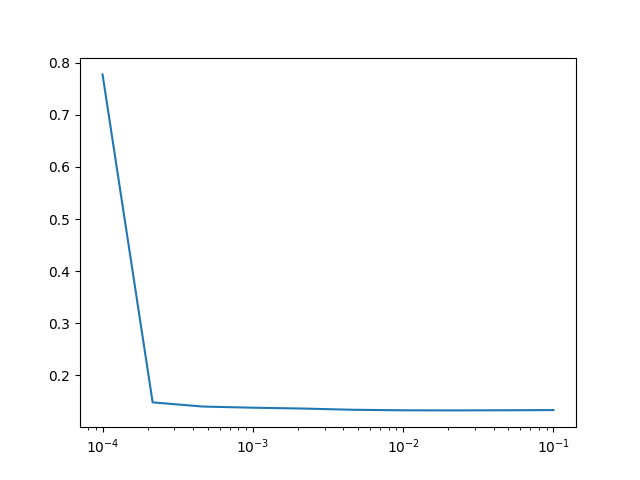
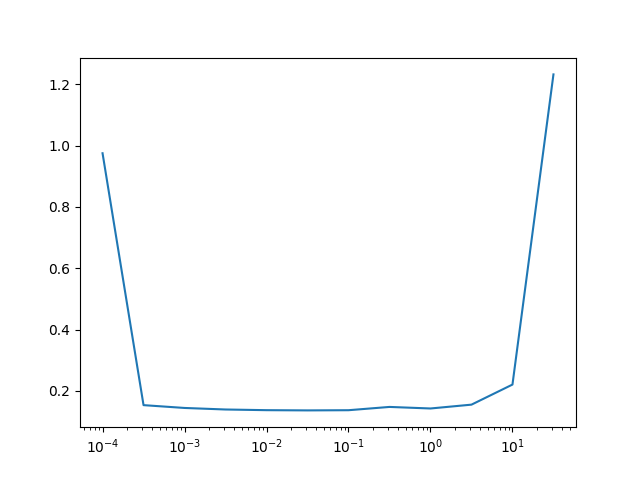
nn ready to train

diff --git a/code/models/content_based_filtering/nn.py b/code/models/content_based_filtering/nn.py
@@ -50,6 +50,8 @@ class simple_NN(keras.Model):
         hid2 = self.fc2_drop(hid2)
         out = self.out(hid2)
 
+        breakpoint()
+
         return out
 
 
@@ -69,15 +71,15 @@ from models import common_funcs
 
 ################################################################################
 
-PLOT_LR = True # set to True to plot lr graph
+PLOT_LR = False # set to True to plot lr graph
 
 
-def lr_plotter(model, x_small, y_small):
-    lr_schedule = tf.keras.callbacks.LearningRateScheduler(lambda epoch: 1e-4 * 10**(epoch/3))
+def lr_plotter(model, x_small, y_small, epochs=12):
+    lr_schedule = tf.keras.callbacks.LearningRateScheduler(lambda epoch: 1e-4 * 10**(epoch/2))
     opt = keras.optimizers.Adam(learning_rate=0.1)
     model.compile(loss="binary_crossentropy", optimizer=opt)
     history = model.fit(x=x_small, y=y_small,
-                epochs=10,
+                epochs=epochs,
                 callbacks=[lr_schedule]
     )
     plt.semilogx(history.history['lr'], history.history['loss'])
@@ -98,6 +100,7 @@ def get_content_nn_probs(train_df: pd.DataFrame, test_df: pd.DataFrame) -> np.nd
     train_df = train_df.iloc[:int(len(train_df) * 0.8)]
     val_df = train_df.iloc[int(len(train_df) * 0.8):]
 
+    # bool_train_labels = train_df.purchased
 
     # NOTE: we have an imbalanced dataset, rather than use class-weights, I'll use oversampling, as this will be a smoother evolution (more positive samples in each batch rather than one heavily weighted sample)
     pos_train_dataset = tf.data.Dataset.from_tensor_slices((train_df[train_df.purchased][["productId", "customerId"]].values, train_df[train_df.purchased].purchased.values))
@@ -111,27 +114,26 @@ def get_content_nn_probs(train_df: pd.DataFrame, test_df: pd.DataFrame) -> np.nd
     resampled_val_dataset = tf.data.experimental.sample_from_datasets([pos_val_dataset, neg_val_dataset], weights=[0.5, 0.5])
 
     BATCH_SIZE = 100_000 # TODO make larger
-    train_dataset = resampled_train_dataset.shuffle(len(train_df) * 10).batch(BATCH_SIZE)
-    val_dataset = resampled_val_dataset.shuffle(len(val_df) * 10).batch(BATCH_SIZE)
+    train_dataset = resampled_train_dataset.shuffle(len(train_df) * 2).batch(BATCH_SIZE)
+    val_dataset = resampled_val_dataset.shuffle(len(val_df) * 2).batch(BATCH_SIZE)
 
     #model = simple_NN(np.array(list(row_lookup_customers.items())), encoded_customers.todense(), np.array(list(row_lookup_products.items())), encoded_products.todense())
     model = simple_NN(encoded_customers.todense(), encoded_products.todense())
-    early_stopping = keras.callbacks.EarlyStopping(monitor="val_loss", patience=10, mode="min")
+    early_stopping = keras.callbacks.EarlyStopping(monitor="val_loss", patience=4, mode="min")
     
 
     if PLOT_LR:
         x_small = list(train_dataset.as_numpy_iterator())[0][0]
         y_small = list(train_dataset.as_numpy_iterator())[0][1]
         lr_plotter(model, x_small, y_small)
-    learning_rate = 0.3 # NOTE: I found this from doing the lr_plotter above
+    learning_rate = 0.03 # NOTE: I found this from doing the lr_plotter above
 
-    breakpoint()
     model.compile(loss='binary_crossentropy', optimizer=keras.optimizers.Adam(learning_rate=learning_rate), metrics=['accuracy'])
 
     history = model.fit(
         train_dataset, 
         validation_data=val_dataset,
-        epochs=100,
+        epochs=10,
         callbacks=[early_stopping],
         shuffle=True,
     )
